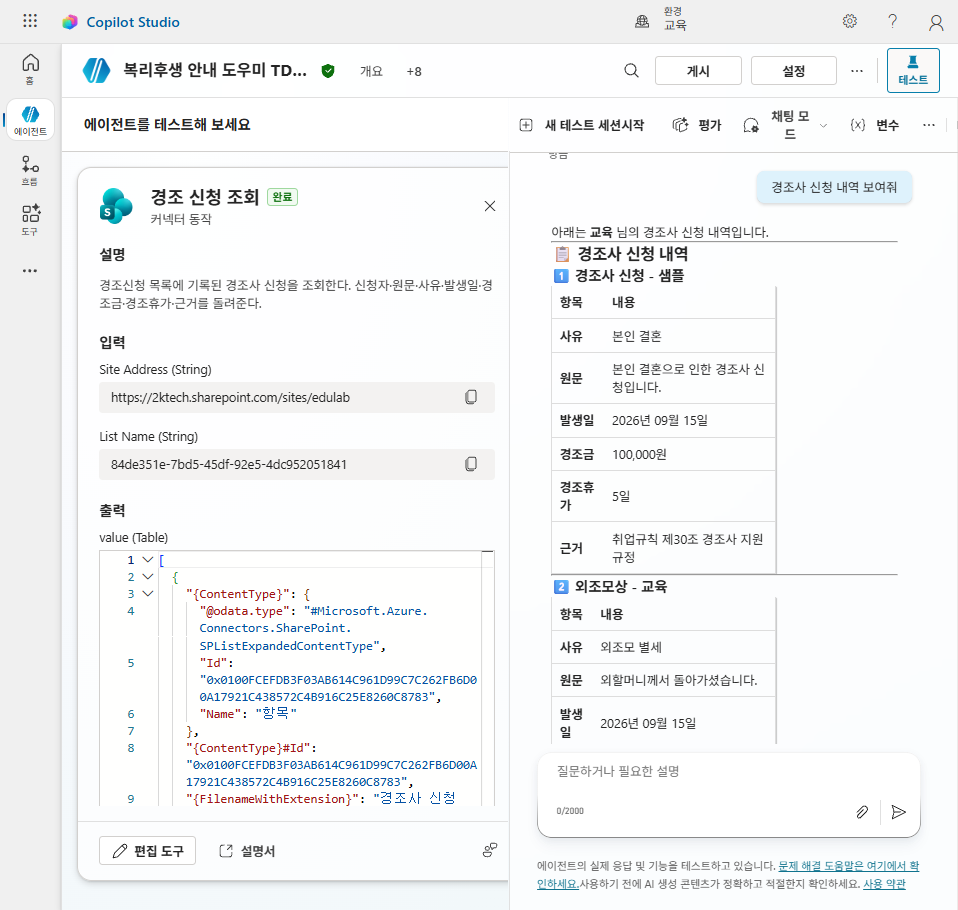
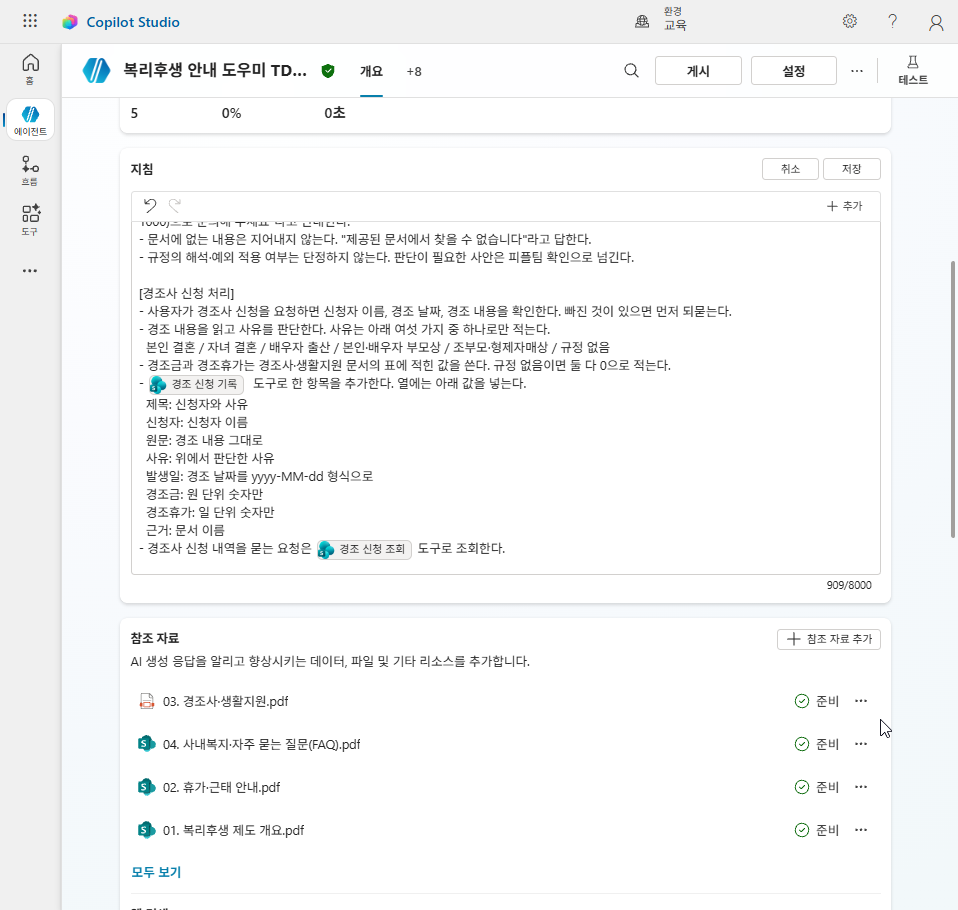
docs: 지침에 도구 칩을 넣고 절 제목을 대상 이름으로 바꾼다
- Lab 1 30·38번: [경조사 신청 처리] 블록의 기록·조회 도구를 `/` 칩으로 넣게 하고 컷(30·38) 반영.
  조회 줄 추가 스텝이 생겨 Lab 1 39스텝(조회 테스트 컷은 39.png 로 이름 변경)
- Lab 3 35번: 조회 도구를 끈 뒤 지침 칩을 경조 신청 사유별 조회 흐름으로 바꾼다. 지침 전문 3개 반영
- 절 제목: 「A를 B로 C한다」 서술형을 만드는 대상 이름의 명사구로 바꿨다(랩 3개 · 부록 trigger)
- Lab 2: [^excel] 각주 정의를 Lab 1 에서 옮겨 각주가 글자로 찍히던 것을 고쳤다

diff --git a/docs/tdg-lab1.md b/docs/tdg-lab1.md
@@ -53,7 +53,7 @@ nav_order: 6
 > **완성 신호**: 대화로 요청한 경조사 신청이 사유·경조금·경조휴가와 함께 목록에 한 줄로 기록된다
 
 {: .time }
-50분 타이머. 7단(에이전트 → 설정과 기준선 → SharePoint 지식 → 목록 → 지침 → 목록 기록 도구 → 목록 조회 도구)으로 나눠 진행합니다.
+50분 타이머. 7단(에이전트 → 설정과 기준선 → SharePoint 지식 → 경조신청 목록 → 지침 → 기록 도구 → 조회 도구)으로 나눠 진행합니다.
 
 ---
 
@@ -66,7 +66,7 @@ nav_order: 6
 
 ---
 
-## 단계 ① 에이전트를 만든다
+## 단계 ① 에이전트 만들기
 
 1. [copilotstudio.microsoft.com](https://copilotstudio.microsoft.com)에 본인 M365 계정으로 로그인합니다.
 
@@ -172,7 +172,7 @@ nav_order: 6
     이 답을 기준선으로 둡니다.
 {: start="7" }
 
-## 단계 ③ SharePoint 지식을 추가한다
+## 단계 ③ SharePoint 지식 추가
 
 11. 개요의 **참조 자료**에서 **+ 참조 자료 추가**를 누릅니다. 상단 **참조 자료** 탭에서 눌러도 됩니다.
 
@@ -210,7 +210,7 @@ nav_order: 6
     오케스트레이터는 어느 문서를 검색할지 고를 때 이 설명을 참고합니다.
 {: start="11" }
 
-## 단계 ④ 인덱싱 동안 목록을 만든다
+## 단계 ④ 경조신청 목록 만들기
 
 15. 새 브라우저 탭에서 강사가 안내한 SharePoint 사이트를 엽니다.
 
@@ -330,7 +330,7 @@ nav_order: 6
     지식에 넣은 문서는 기준(제도)입니다. 내 잔여 연차 같은 데이터는 들어 있지 않습니다.
 {: start="21" }
 
-## 단계 ⑥ 경조사 신청을 도구로 기록한다
+## 단계 ⑥ 경조 신청 기록 도구
 
 26. Copilot Studio 상단 **도구** 탭에서 **+ 도구 추가**를 누릅니다.
 
@@ -395,7 +395,7 @@ nav_order: 6
 
     ![사용할 자격 증명을 작성자가 제공한 자격 증명으로 바꾼 화면](../assets/tdg1/29-2.png)
 
-30. 상단 탭 묶음(`+8` 등)에서 **개요**를 열고 **지침**의 **편집**을 누릅니다. 맨 아래에 아래 블록을 더하고 **저장**을 누릅니다.
+30. 상단 탭 묶음(`+8` 등)에서 **개요**를 열고 **지침**의 **편집**을 누릅니다. 맨 아래에 아래 블록을 붙여넣습니다.
 
     ```
     [경조사 신청 처리]
@@ -403,7 +403,7 @@ nav_order: 6
     - 경조 내용을 읽고 사유를 판단한다. 사유는 아래 여섯 가지 중 하나로만 적는다.
       본인 결혼 / 자녀 결혼 / 배우자 출산 / 본인·배우자 부모상 / 조부모·형제자매상 / 규정 없음
     - 경조금과 경조휴가는 경조사·생활지원 문서의 표에 적힌 값을 쓴다. 규정 없음이면 둘 다 0으로 적는다.
-    - 경조 신청 기록 도구로 한 항목을 추가한다. 열에는 아래 값을 넣는다.
+    - /경조 신청 기록 도구로 한 항목을 추가한다. 열에는 아래 값을 넣는다.
       제목: 신청자와 사유
       신청자: 신청자 이름
       원문: 경조 내용 그대로
@@ -416,6 +416,10 @@ nav_order: 6
 
     {: .warning }
     붙여넣을 때 `-` 로 시작하는 줄과 대괄호는 그대로 두고, **숫자 목록이나 `*` 는 쓰지 않습니다.** 이 칸은 붙여넣은 글을 마크다운으로 해석합니다.
+
+    붙여넣은 블록에서 `/경조 신청 기록` 글자를 지우고, 그 자리에 **`/`** 를 입력해 목록에서 `경조 신청 기록` 도구를 고릅니다. 도구 이름이 칩으로 바뀐 뒤 **저장**을 누릅니다.
+
+    ![경조 신청 기록 칩이 들어간 지침](../assets/tdg1/30.png)
 
 31. 테스트 창의 **새 테스트 세션**을 누르고 아래를 입력합니다. `홍길동` 대신 본인 이름, 날짜는 오늘 날짜로 바꿉니다.
 
@@ -438,7 +442,7 @@ nav_order: 6
     경조사·생활지원 문서의 표에서 결혼 항목은 본인과 자녀뿐입니다.
 {: start="26" }
 
-## 단계 ⑦ 기록을 도구로 읽는다
+## 단계 ⑦ 경조 신청 조회 도구
 
 34. 상단 **도구** 탭에서 **+ 도구 추가**를 누릅니다.
 
@@ -476,13 +480,23 @@ nav_order: 6
 
     ![작성자가 제공한 자격 증명과 저장 버튼](../assets/tdg1/37-2.png)
 
-38. 테스트 창의 **새 테스트 세션**을 누르고 물어봅니다.
+38. 상단 탭 묶음(`+8` 등)에서 **개요**를 열고 **지침**의 **편집**을 누릅니다. `[경조사 신청 처리]` 블록 맨 아래에 아래 한 줄을 더합니다.
+
+    ```
+    - 경조사 신청 내역을 묻는 요청은 /경조 신청 조회 도구로 조회한다.
+    ```
+
+    `/경조 신청 조회` 글자를 지우고 **`/`** 를 입력해 목록에서 `경조 신청 조회` 도구를 고른 뒤 **저장**을 누릅니다.
+
+    ![경조 신청 조회 칩까지 들어간 지침](../assets/tdg1/38.png)
+
+39. 테스트 창의 **새 테스트 세션**을 누르고 물어봅니다.
 
     ```
     경조사 신청 내역 보여줘
     ```
 
-    ![경조 신청 조회가 완료로 기록된 활동과 답변](../assets/tdg1/38.png)
+    ![경조 신청 조회가 완료로 기록된 활동과 답변](../assets/tdg1/39.png)
 
     답은 ⑥에서 기록한 `경조신청_HGD` 목록에서 읽어 온 값입니다.
 {: start="34" }
@@ -500,7 +514,7 @@ nav_order: 6
 - ⑤ 세 질문이 문서 수치 · 안내 · 없음으로 갈린다 (25번)
 - ⑥ 본인 이니셜이 붙은 경조신청 목록이 있다 (19·20번)
 - ⑦ 대화로 요청한 경조사 신청이 목록에 한 줄로 기록되었다 (30~32번)
-- ⑧ 기록한 신청을 조회 도구로 읽었다 (36~38번)
+- ⑧ 기록한 신청을 조회 도구로 읽었다 (36~39번)
 {: .checklist }
 
 **관찰**: 나오면 좋고, 안 나와도 실패가 아닙니다
@@ -512,7 +526,7 @@ nav_order: 6
 
 ## 여기까지의 지침
 
-24번에서 붙인 지침에 30번의 `[경조사 신청 처리]` 블록이 더해진 전문입니다.
+24번에서 붙인 지침에 30번의 `[경조사 신청 처리]` 블록과 38번의 조회 줄이 더해진 전문입니다.
 
 ```
 ## 역할
@@ -528,12 +542,13 @@ nav_order: 6
 - 개인의 실제 데이터(내 잔여 연차, 내 별포인트 잔액, 내 급여)는 알 수 없다. 숫자를 추정하지 말고 "한별포털에서 확인하거나 피플팀(내선 1000)으로 문의해 주세요"라고 안내한다.
 - 문서에 없는 내용은 지어내지 않는다. "제공된 문서에서 찾을 수 없습니다"라고 답한다.
 - 규정의 해석·예외 적용 여부는 단정하지 않는다. 판단이 필요한 사안은 피플팀 확인으로 넘긴다.
+
 [경조사 신청 처리]
 - 사용자가 경조사 신청을 요청하면 신청자 이름, 경조 날짜, 경조 내용을 확인한다. 빠진 것이 있으면 먼저 되묻는다.
 - 경조 내용을 읽고 사유를 판단한다. 사유는 아래 여섯 가지 중 하나로만 적는다.
   본인 결혼 / 자녀 결혼 / 배우자 출산 / 본인·배우자 부모상 / 조부모·형제자매상 / 규정 없음
 - 경조금과 경조휴가는 경조사·생활지원 문서의 표에 적힌 값을 쓴다. 규정 없음이면 둘 다 0으로 적는다.
-- 경조 신청 기록 도구로 한 항목을 추가한다. 열에는 아래 값을 넣는다.
+- /경조 신청 기록 도구로 한 항목을 추가한다. 열에는 아래 값을 넣는다.
   제목: 신청자와 사유
   신청자: 신청자 이름
   원문: 경조 내용 그대로
@@ -542,11 +557,13 @@ nav_order: 6
   경조금: 원 단위 숫자만
   경조휴가: 일 단위 숫자만
   근거: 문서 이름
+- 경조사 신청 내역을 묻는 요청은 /경조 신청 조회 도구로 조회한다.
 ```
+
+`/경조 신청 기록`과 `/경조 신청 조회`는 화면에서 **칩**입니다. 통째로 붙여넣으면 글자가 되므로, 그 부분만 `/` 를 다시 입력해 목록에서 고릅니다.
 
 ---
 
 ## 출처
 
 [^knowledge]: Unstructured data as a knowledge source <https://learn.microsoft.com/microsoft-copilot-studio/knowledge-unstructured-data>. Microsoft Learn.
-[^excel]: Excel Online (Business) <https://learn.microsoft.com/connectors/excelonlinebusiness/>. Microsoft Learn.

diff --git a/docs/tdg-lab3.md b/docs/tdg-lab3.md
@@ -40,7 +40,7 @@ nav_order: 8
 > **완성 신호**: 확정을 누르면 신청내역에 한 줄이 추가되고, 취소를 누르면 추가되지 않는다
 
 {: .time }
-50분 타이머. 4단(토픽 부르기 → 입력 받기 → 확인 카드 → 목록 조회 흐름)으로 나눠 진행합니다.
+50분 타이머. 4단(토픽 → 질문과 변수 → 확인 카드 → 조회 흐름)으로 나눠 진행합니다.
 
 ---
 
@@ -51,7 +51,7 @@ nav_order: 8
 
 ---
 
-## 단계 ① 토픽을 만들고 설명을 쓴다
+## 단계 ① 자기계발비 신청 토픽
 
 1. 화면 상단 메뉴에서 **토픽**을 열고 **토픽 추가 → 새로 시작**을 선택합니다.
 
@@ -106,7 +106,7 @@ nav_order: 8
     도서구입으로 자기계발비 신청할게요
     ```
 
-## 단계 ② 입력을 받는다
+## 단계 ② 질문 노드와 변수
 
 8. 4번의 메시지 노드를 **⋯ → 삭제**로 지웁니다. 트리거 아래 **+** 에서 **질문하기**를 넣고 질문 문구에 아래를 입력합니다.
 
@@ -176,7 +176,7 @@ nav_order: 8
     뒤 요청은 항목을 다시 물을 수 있습니다.
 {: start="8" }
 
-## 단계 ③ 확인 카드로 확정받는다
+## 단계 ③ 확인 카드와 조건
 
 17. 13번 메시지 노드 아래 **+** 에서 **적응형 카드로 질문**을 넣습니다. 노드 속성에서 **적응형 카드 편집**을 누르고 **카드 페이로드 편집기**에 아래를 붙여넣은 뒤 저장합니다.
 
@@ -260,7 +260,7 @@ nav_order: 8
     기록은 확정을 누른 건수만큼 추가됩니다.
 {: start="17" }
 
-## 단계 ④ 흐름으로 목록을 조회한다
+## 단계 ④ 경조 신청 조회 흐름
 
 28. **도구 추가**의 위쪽 **새로 만들기**에서 **에이전트 흐름**을 고릅니다. **초안 저장**을 먼저 누르고 이름을 아래로 바꿉니다.
 
@@ -309,7 +309,7 @@ nav_order: 8
     경조사 신청 기록을 사유별로 조회한다. 사유는 "본인 결혼", "자녀 결혼", "배우자 출산", "본인·배우자 부모상", "조부모·형제자매상", "규정 없음" 중 하나로 넣는다.
     ```
 
-35. 도구 목록에서 Lab 1 34번의 `경조 신청 조회`의 **사용 설정**을 끕니다.
+35. 도구 목록에서 Lab 1 34번의 `경조 신청 조회`의 **사용 설정**을 끕니다. 이어서 **개요**의 **지침** **편집**에서 `[경조사 신청 처리]` 블록 마지막 줄의 `경조 신청 조회` 칩을 지우고, **`/`** 로 `경조 신청 사유별 조회 HGD`를 넣은 뒤 **저장**합니다.
 
 36. **새 테스트 세션**에서 물어봅니다.
 
@@ -351,7 +351,7 @@ nav_order: 8
 
 ## 여기까지의 지침
 
-[Lab 2](./tdg-lab2.html) 상태에서 **두 군데**가 바뀌었습니다. `[자기계발비 신청 처리]` 블록과 이메일 줄을 지우고, 「답변 원칙」 마지막에 토픽 한 줄을 넣었습니다(6번).
+[Lab 2](./tdg-lab2.html) 상태에서 **두 군데**가 바뀌었습니다. `[자기계발비 신청 처리]` 블록과 이메일 줄을 지우고, 「답변 원칙」 마지막에 토픽 한 줄을 넣었습니다(6번). `[경조사 신청 처리]` 블록 마지막 줄의 조회 도구는 흐름으로 바꿨습니다(35번).
 
 ```
 ## 역할
@@ -368,12 +368,13 @@ nav_order: 8
 - 개인의 실제 데이터(내 잔여 연차, 내 별포인트 잔액, 내 급여)는 알 수 없다. 숫자를 추정하지 말고 "한별포털에서 확인하거나 피플팀(내선 1000)으로 문의해 주세요"라고 안내한다.
 - 문서에 없는 내용은 지어내지 않는다. "제공된 문서에서 찾을 수 없습니다"라고 답한다.
 - 규정의 해석·예외 적용 여부는 단정하지 않는다. 판단이 필요한 사안은 피플팀 확인으로 넘긴다.
+
 [경조사 신청 처리]
 - 사용자가 경조사 신청을 요청하면 신청자 이름, 경조 날짜, 경조 내용을 확인한다. 빠진 것이 있으면 먼저 되묻는다.
 - 경조 내용을 읽고 사유를 판단한다. 사유는 아래 여섯 가지 중 하나로만 적는다.
   본인 결혼 / 자녀 결혼 / 배우자 출산 / 본인·배우자 부모상 / 조부모·형제자매상 / 규정 없음
 - 경조금과 경조휴가는 경조사·생활지원 문서의 표에 적힌 값을 쓴다. 규정 없음이면 둘 다 0으로 적는다.
-- 경조 신청 기록 도구로 한 항목을 추가한다. 열에는 아래 값을 넣는다.
+- /경조 신청 기록 도구로 한 항목을 추가한다. 열에는 아래 값을 넣는다.
   제목: 신청자와 사유
   신청자: 신청자 이름
   원문: 경조 내용 그대로
@@ -382,9 +383,10 @@ nav_order: 8
   경조금: 원 단위 숫자만
   경조휴가: 일 단위 숫자만
   근거: 문서 이름
+- 경조사 신청 내역을 묻는 요청은 /경조 신청 사유별 조회 HGD 도구로 조회한다.
 ```
 
-`/자기계발비 신청`은 화면에서 **칩**입니다. 통째로 붙여넣으면 글자가 되므로, 그 줄만 `/` 를 다시 입력해 목록에서 고릅니다.
+`/자기계발비 신청`·`/경조 신청 기록`·`/경조 신청 사유별 조회 HGD`는 화면에서 **칩**입니다. 통째로 붙여넣으면 글자가 되므로, 그 줄만 `/` 를 다시 입력해 목록에서 고릅니다.
 
 ---
 

diff --git a/docs/tdg-lab2.md b/docs/tdg-lab2.md
@@ -46,7 +46,7 @@ nav_order: 7
 > **완성 신호**: 커넥터 도구로 쓴 신청내역은 칸이 어긋나고, 같은 요청을 흐름으로 보내면 값이 칸에 맞게 들어간다
 
 {: .time }
-50분 타이머. 4단(표 읽기 → 도구로 쓰기 → 흐름으로 정해 두기 → 같은 요청 다시)으로 나눠 진행합니다.
+50분 타이머. 4단(조회 도구 → 기록 도구 → 신청 처리 흐름 → 결과 비교)으로 나눠 진행합니다.
 
 ---
 
@@ -56,7 +56,7 @@ nav_order: 7
 
 ---
 
-## 단계 ① 표를 도구로 읽는다
+## 단계 ① 지원단가 조회 도구
 
 1. 자기계발비 기준표 Excel 파일을 PC에 받습니다. 강사가 안내한 SharePoint 폴더에서 받아도 됩니다.
 
@@ -151,7 +151,7 @@ nav_order: 7
 
     답은 `지원기준` 표에서 읽어 온 값입니다.
 
-## 단계 ② 신청을 도구로 쓴다
+## 단계 ② 신청내역 기록 도구
 
 8. **지침** 맨 아래에 아래 블록을 더하고 저장합니다.
 
@@ -203,7 +203,7 @@ nav_order: 7
     요청을 보낸 뒤 Excel의 `신청내역`을 다시 엽니다.
 {: start="8" }
 
-## 단계 ③ 흐름으로 조회와 쓰기를 정해 둔다
+## 단계 ③ 자기계발비 신청 처리 흐름
 
 15. **도구 추가**의 위쪽 **새로 만들기**에서 **에이전트 흐름**을 고릅니다.
 
@@ -298,7 +298,7 @@ nav_order: 7
     에이전트는 게시하지 않습니다.
 {: start="15" }
 
-## 단계 ④ 같은 요청을 흐름으로 보낸다
+## 단계 ④ 도구와 흐름 결과 비교
 
 30. 도구 목록에서 `신청내역 기록`의 **사용 설정**을 끕니다.
 
@@ -360,7 +360,7 @@ nav_order: 7
 - 경조 내용을 읽고 사유를 판단한다. 사유는 아래 여섯 가지 중 하나로만 적는다.
   본인 결혼 / 자녀 결혼 / 배우자 출산 / 본인·배우자 부모상 / 조부모·형제자매상 / 규정 없음
 - 경조금과 경조휴가는 경조사·생활지원 문서의 표에 적힌 값을 쓴다. 규정 없음이면 둘 다 0으로 적는다.
-- 경조 신청 기록 도구로 한 항목을 추가한다. 열에는 아래 값을 넣는다.
+- /경조 신청 기록 도구로 한 항목을 추가한다. 열에는 아래 값을 넣는다.
   제목: 신청자와 사유
   신청자: 신청자 이름
   원문: 경조 내용 그대로
@@ -369,7 +369,7 @@ nav_order: 7
   경조금: 원 단위 숫자만
   경조휴가: 일 단위 숫자만
   근거: 문서 이름
-
+- 경조사 신청 내역을 묻는 요청은 /경조 신청 조회 도구로 조회한다.
 
 [자기계발비 신청 처리]
 - 사용자가 자기계발비 신청을 요청하면 항목명과 수량을 확인한다. 둘 중 빠진 것이 있으면 먼저 되묻는다.
@@ -383,8 +383,10 @@ nav_order: 7
   상태: 접수
 ```
 
-`/System.User.Email`은 화면에서 **칩**입니다. 통째로 붙여넣으면 글자가 되므로, 그 줄만 `/` 를 다시 입력해 목록에서 고릅니다.
+`/System.User.Email`·`/경조 신청 기록`·`/경조 신청 조회`는 화면에서 **칩**입니다. 통째로 붙여넣으면 글자가 되므로, 그 줄만 `/` 를 다시 입력해 목록에서 고릅니다.
 
 ---
 
 ## 출처
+
+[^excel]: Excel Online (Business) <https://learn.microsoft.com/connectors/excelonlinebusiness/>. Microsoft Learn.

diff --git a/docs/appendix/trigger.md b/docs/appendix/trigger.md
@@ -48,7 +48,7 @@ nav_order: 7
 
 ---
 
-## 단계 ① 양식과 트리거를 만든다
+## 단계 ① 양식과 트리거 추가
 
 1. [경조사 신청 양식 템플릿]({{ site.tdg.forms_template_url }})을 열고 오른쪽 위 **복제**를 누릅니다.
 
@@ -109,7 +109,7 @@ nav_order: 7
 
     이 지침은 에이전트 지침에 넣지 않고 트리거에 저장합니다. 에이전트 지침은 대화 응답을 전제로 쓴 문장이라, 두 지시를 한곳에 두면 충돌할 수 있습니다.[^trigger]
 
-## 단계 ② 트리거 흐름을 고친다
+## 단계 ② 트리거 흐름 수정
 
 6. 개요의 **트리거**에서 방금 만든 **새 응답이 제출되는 경우** 이름을 누릅니다. Power Automate 디자이너가 열립니다.
 
@@ -191,7 +191,7 @@ nav_order: 7
     ![초안 저장과 게시 버튼](../../assets/appendix/trigger/11.png)
 {: start="6" }
 
-## 단계 ③ 게시하고 제출해 본다
+## 단계 ③ 게시와 제출 확인
 
 12. Copilot Studio 탭으로 돌아가 에이전트 우측 상단 **게시**를 누릅니다. **최신 버전 강제 적용**은 체크하지 않고 **게시**합니다.
 
